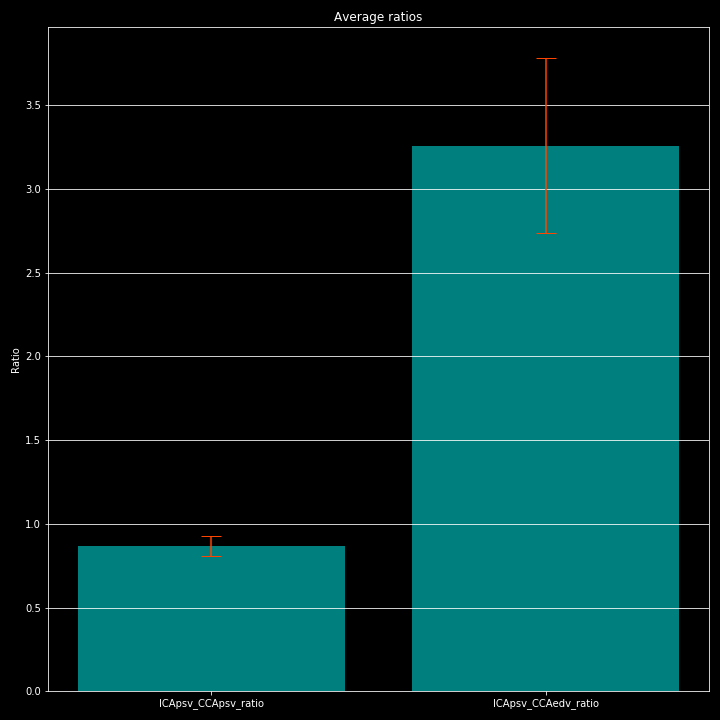
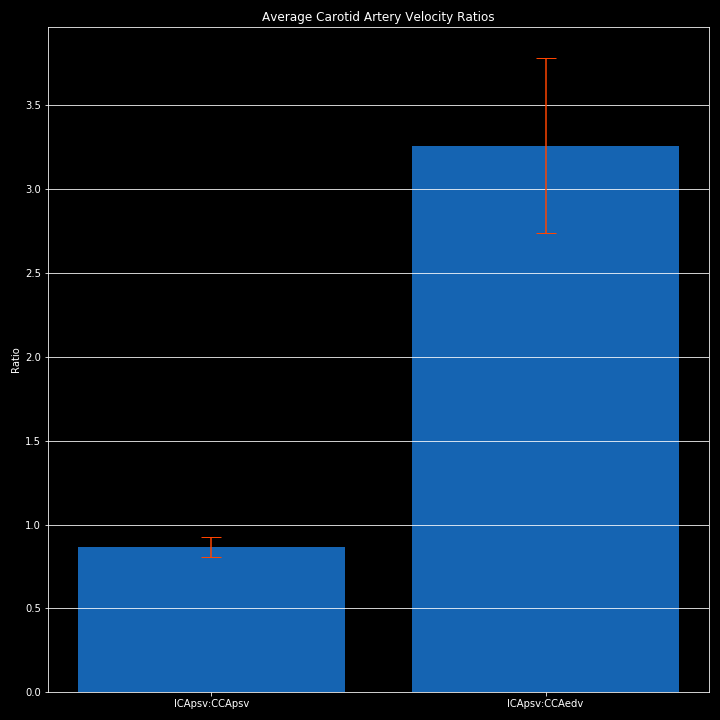
tidying up and formatting

diff --git a/data_manipulation.py b/data_manipulation.py
@@ -1,77 +1,3 @@
-#%% [markdown]
-
-### Competencies
-
-# Analyse data and report on the use of specific measurements (particularly in terms of accuracy, 
-# reproducibility, bias, specificity and sensitivity) in the context of bioinformatics.
-
-### Knowledge and skills you might demonstrate
-# - Sources of appropriate literature relating to the technical, scientific and clinical basis of clinical measurements.
-# - Common artefacts in equipment calibration and performance.
-# - Statistical tests applied to clinical measuring data to measure accuracy, precision, resolution and bias.
-# - Range of statistical tests and the appropriate choice for each situation.
-# - Use of commonly available databases, spreadsheets and statistics packages.
-# - Concept of Patient Identifiable Data and the process of de-identification for both teaching and research purposes.
-# - Governance and ethical issues surrounding such secondary use of data.
-
-#%% [markdown]
-
-### Importance of Reproducibility
-
-# Within the clinical environment and the concurrent testing theat follows, the imporance of high levels of reproducibility of 
-# sufficiently accurate, precise and reliable results is of the utomost importance. Before patients are even considered, from 
-# an economical standpoint Freedman et al (2015) links low reproducibility of research with increased delays and cost of development.
-# The advancement of medical research is also reliant on the fact that knowledge gained from research can be reproduced in a robust 
-# and reliable manner. If this is not the case, such research will not provide a firm enough base for which further advances can be 
-# developed upon (Begley et al 2015, McNutt 2014).
-#
-# This perspective on reproducibility gathered from research tranfers smoothly over to the  aspect of clinical care. 
-# If a given test procedure is not reproducibile between individuals it can not then be considered reliable. Unreproducibility of results
-# will  not allow for these measurements to be compared against a "normal" value. As such, clinical measurements taken from an unreprodubilbe test
-# wiill not be substantial to make informed decisions on treatment.
-
-
-### Identifiable Data
-
-# Data gathered foor this exercisesed was obtained by undertaking ultrasound scans from the Common and Internal Carotid Arteries
-# The data gathered from the scans has been anonymised to protect confidentiality of the individual whom they were taken from.
-#
-# To ensure reproducibility of the results, the following factors were kept idencital throughout the process
-# - Same Operator
-# - Same Ultrasound Scanner/Probe
-# - Results were one after another over a space of 15 minutes
-# - Same method of data retrieval was undertaken for each measurement
-# - Same location throughout the procedure
-# - Same Environmental Conditions
-# - Same state of the subject (Resting State)
-
-### Common Artefacts in Ultrasound performance
-
-# Often occur due to various occurences, such includes:
-# - Operator Error
-# - Physical Principles
-# - Equipment Malfunction/Design
-#
-#
-# The wave transmitted travels in a direct line from the probe(transducer) to an obect, then is reflected back to the probe(transducer).
-# A signal is created depending upon the distance in which the wave was required to travel to and from the point of reflection.
-# An increase in wavelength of the transmitted wave will result in greater penetrance of the signal, but will adverseley affect resolution.
-
-#### Catagories of Artefacts
-
-# - Image detail resolution related
-# - Locational artifacts
-# - Attenuation artifacts
-# - Doppler artifacts 
-#
-
-### References
-# Freedman et al (2015) <https://journals.plos.org/plosbiology/article?id=10.1371/journal.pbio.1002165>
-#
-# Begley et al 2015 <https://www.ahajournals.org/doi/full/10.1161/CIRCRESAHA.114.303819>
-#
-# McNutt 2014 <https://science.sciencemag.org/content/343/6168/229>
-
 #%%
 # Import Modules
 
@@ -121,7 +47,7 @@ print("RICA PSV: " + str(stdev_rica_psv))
 print("RICA EDV: " + str(stdev_rcca_edv))
 
 #%%
-# Creation of lists for the plot
+# Creation of lists for use in plots
 
 scans = ['RCCApsv', 'RCCAedv', 'RICApsv', 'RICAedv']
 x_pos = np.arange(len(scans))
@@ -129,10 +55,10 @@ CTEs = [mean_rcca_psv, mean_rcca_edv, mean_rica_psv, mean_rica_edv]
 error = [stdev_rcca_psv, stdev_rcca_edv, stdev_rica_psv, stdev_rica_edv]
 
 #%%
-#Building the Bar plot
+#Building Bar plot - Average Velocities
 
 fig, ax = plt.subplots()
-ax.bar(x_pos, CTEs, yerr=error, align='center', alpha=0.5, ecolor='red', capsize=10)
+ax.bar(x_pos, CTEs, yerr=error, align='center', alpha=0.5, color="cyan", ecolor='red', capsize=10)
 ax.set_ylabel('Velocity (cm/s)')
 ax.set_xticks(x_pos)
 ax.set_xticklabels(scans)
@@ -206,7 +132,7 @@ plt.show()
 
 #%% [markdown]
 
-# |  	| ICApsv 	| ICApsv:CCApsv 	| ICApsv:CCAedv 	|
+# |  	| ICApsv 	| Ratio - ICApsv:CCApsv 	| Ratio - ICApsv:CCAedv 	|
 # |-----------------	|-----------------	|----------------------------------------------------------------------------------	|---------------	|
 # | Normal 	| <124 cm/s 	| <2 	| <8 	|
 # | Mild Atheroma 	| <124 cm/s 	| <2 	| <8 	|
@@ -283,9 +209,9 @@ ax.scatter(x_pos, ICApsv_CCAedv_ratios, c="deepskyblue", label="ICApsv:CCAedv Ra
 ax.set_ylim(ymin=0.4, ymax=10)
 ax.set_ylabel('Ratio')
 ax.hlines(2, 0, 4, color="r", linestyles="dashed")
-ax.text(0, 2.1, "Normal Maximum Threshold")
+ax.text(0, 2.1, "Normal Maximum Threshold - ICApsv:CCApsv")
 ax.hlines(8, 0, 4, color="deepskyblue", linestyles="dashed")
-ax.text(0, 8.1, "Normal Maximum Threshold")
+ax.text(0, 8.1, "Normal Maximum Threshold - ICApsv:CCAedv")
 ax.set_xticks(x_pos)
 ax.set_xlabel('Measurement Attempt')
 ax.set_title('ICApsv:CCApsv Ratio Vs ICApsv:CCAedv Ratio w/ corresponding "normal" thresholds')
@@ -307,7 +233,7 @@ stdev_ICApsv_CCAedv_ratio = np.std(ICApsv_CCAedv_ratios)
 #%%
 # Bar plot - Mean ratios w/ std deviation
 
-ratio = ['ICApsv_CCApsv_ratio', 'ICApsv_CCAedv_ratio']
+ratio = ['ICApsv:CCApsv', 'ICApsv:CCAedv']
 x_pos = np.arange(len(ratio))
 CTEs = [mean_ICApsv_CCApsv_ratio, mean_ICApsv_CCAedv_ratio]
 error = [stdev_ICApsv_CCApsv_ratio, stdev_ICApsv_CCAedv_ratio]
@@ -315,11 +241,11 @@ error = [stdev_ICApsv_CCApsv_ratio, stdev_ICApsv_CCAedv_ratio]
 #Building the Bar plot
 
 fig, ax = plt.subplots()
-ax.bar(x_pos, CTEs, yerr=error, align='center', alpha=0.5, color="cyan", ecolor='orangered', capsize=10)
+ax.bar(x_pos, CTEs, yerr=error, align='center', alpha=0.7, color="dodgerblue", ecolor='orangered', capsize=10)
 ax.set_ylabel('Ratio')
 ax.set_xticks(x_pos)
 ax.set_xticklabels(ratio)
-ax.set_title('Average ratios')
+ax.set_title('Average Carotid Artery Velocity Ratios')
 ax.yaxis.grid(True)
 
 # Save the figure and show
